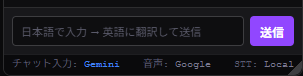
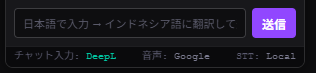
docs: README にクリップ録画・フッターエンジン切替の使い方を追加、バージョンバッジ・スクショ更新 v0.6.22

Changed region(s): [[0.0, 0.0, 1.0, 1.0]]

diff --git a/README.ru.md b/README.ru.md
@@ -2,7 +2,7 @@
 
 [日本語](README.md) | [English](README.en.md) | [Русский](README.ru.md)
 
-![version](https://img.shields.io/badge/version-0.6.13-9147ff)
+![version](https://img.shields.io/badge/version-0.6.22-9147ff)
 ![manifest](https://img.shields.io/badge/manifest-v3-blue)
 ![license](https://img.shields.io/badge/license-MIT-green)
 
@@ -155,6 +155,7 @@
 | **🎤** | Включает/выключает голосовые субтитры |
 | **🔊** | Включает/выключает озвучивание перевода (TTS) |
 | **📊** | Показывает/скрывает панель использования API |
+| **🔴** | Открывает/закрывает панель записи клипов (мигает красным во время записи) |
 | **×** | Закрывает панель и останавливает получение/перевод чата |
 
 **💡 Строка подсказок распознавания**  
@@ -202,6 +203,18 @@
 
 Счетчики использования можно сбросить на странице настроек. Панель можно перетащить в любое место.
 
+### Переключение движков перевода
+
+Щелчок по любому элементу футера переключает включённые движки прямо из панели — открывать страницу настроек не нужно.
+
+| Элемент футера | Движки при щелчке |
+|---|---|
+| **Chat input:** | Google → DeepL → Gemini (только включённые) |
+| **Voice:** | Google → DeepL → Gemini (только включённые) |
+| **STT:** | Local ⇄ Groq (если Groq включён) |
+
+> Чтобы движок появился в цикле, нужно задать API-ключ и включить его на странице настроек. Выключенные движки пропускаются.
+
 ### Отправка сообщений в чат
 
 1. Щелкните правой кнопкой по значку и задайте исходный язык.
@@ -224,6 +237,17 @@
 3. Нажмите еще раз, чтобы остановить.
 
 > Рекомендуется уменьшить громкость стримера или использовать наушники.
+
+### Запись клипов
+
+1. Нажмите кнопку **🔴** в заголовке панели, чтобы открыть панель записи.
+2. Нажмите **«● Начать запись»**, чтобы начать запись (максимальная длительность задаётся в настройках; по умолчанию 3 минуты).
+3. Во время записи кнопка 🔴 мигает красным и показывает прошедшее время.
+4. Нажмите **«■ Стоп»**, чтобы завершить запись. Файл `clip_канал_дата.webm` скачивается автоматически.
+5. Если в настройках включено «Добавлять субтитры к записи», файл субтитров `.ass` также скачивается автоматически.
+6. Команда ffmpeg для вжигания субтитров в видео генерируется автоматически и копируется в буфер обмена.
+
+> Субтитры записываются только когда активны голосовые субтитры **🎤**. Включите **🎤** перед началом записи.
 
 ---
 

diff --git a/README.md b/README.md
@@ -2,7 +2,7 @@
 
 [日本語](README.md) | [English](README.en.md) | [Русский](README.ru.md)
 
-![version](https://img.shields.io/badge/version-0.6.13-9147ff)
+![version](https://img.shields.io/badge/version-0.6.22-9147ff)
 ![manifest](https://img.shields.io/badge/manifest-v3-blue)
 ![license](https://img.shields.io/badge/license-MIT-green)
 
@@ -155,6 +155,7 @@
 | **🎤** | 音声字幕の ON / OFF |
 | **🔊** | 翻訳読み上げ（TTS）の ON / OFF |
 | **📊** | API 利用状況パネルの表示 / 非表示 |
+| **🔴** | クリップ録画パネルの開閉（録画中は赤く点滅） |
 | **×** | パネルを閉じる（チャット受信・翻訳も停止） |
 
 **💡 認識ヒントバー**（画像下部の入力欄）
@@ -204,6 +205,18 @@
 
 利用量はオプションページからリセットできます。パネルはドラッグで好きな位置に移動できます。
 
+### 翻訳エンジンの切り替え
+
+フッターの各項目をクリックすると、オプションで有効にしたエンジンをその場で切り替えられます。設定ページを開かずに素早く変更可能です。
+
+| フッター項目 | クリックで切り替わるエンジン |
+|---|---|
+| **チャット入力:** | Google → DeepL → Gemini（有効なものだけ） |
+| **音声:** | Google → DeepL → Gemini（有効なものだけ） |
+| **STT:** | Local ⇄ Groq（Groq が有効な場合） |
+
+> エンジンを使えるようにするにはオプションページで API キーを設定して有効化する必要があります。有効化していないエンジンはスキップされます。
+
 ### チャット送信
 
 1. アイコンを右クリック → 翻訳元言語を設定
@@ -226,6 +239,17 @@
 3. もう一度クリックで停止
 
 > 配信者の音量を下げてもらうか、ヘッドホンで使用するのがおすすめです。
+
+### クリップ録画
+
+1. パネルヘッダーの **🔴 ボタン** をクリックして録画パネルを開く
+2. **「● 録画開始」** をクリックすると録画が始まる（最大時間はオプションで設定可能、デフォルト 3 分）
+3. 録画中は 🔴 が赤く点滅し、経過時間が表示される
+4. **「■ 停止」** をクリックすると録画終了、`clip_チャンネル名_日時.webm` が自動ダウンロードされる
+5. オプションで「字幕を録画に含める」が ON の場合、`.ass` 字幕ファイルも自動ダウンロードされる
+6. 字幕焼き込み用の ffmpeg コマンドが自動生成されてクリップボードにコピーされる
+
+> 🎤 音声字幕が動作中でないと字幕は記録されません。録画前に **🎤** をオンにしておくのがおすすめです。
 
 ---
 

diff --git a/README.en.md b/README.en.md
@@ -2,7 +2,7 @@
 
 [日本語](README.md) | [English](README.en.md) | [Русский](README.ru.md)
 
-![version](https://img.shields.io/badge/version-0.6.13-9147ff)
+![version](https://img.shields.io/badge/version-0.6.22-9147ff)
 ![manifest](https://img.shields.io/badge/manifest-v3-blue)
 ![license](https://img.shields.io/badge/license-MIT-green)
 
@@ -155,6 +155,7 @@ Before using voice subtitles, download a model from the options page.
 | **🎤** | Toggles voice subtitles on/off |
 | **🔊** | Toggles translation text-to-speech (TTS) on/off |
 | **📊** | Shows/hides the API usage panel |
+| **🔴** | Opens/closes the clip recording panel (blinks red during recording) |
 | **×** | Closes the panel and stops chat receiving/translation |
 
 **💡 Recognition hint bar**  
@@ -202,6 +203,18 @@ A translucent floating panel that can be opened from the header **📊** button.
 
 Usage counters can be reset from the options page. The panel can be dragged to any position.
 
+### Switching Translation Engines
+
+Click any item in the footer to cycle through the engines you've enabled in options — no need to open the settings page.
+
+| Footer item | Engines cycled on click |
+|---|---|
+| **Chat input:** | Google → DeepL → Gemini (enabled ones only) |
+| **Voice:** | Google → DeepL → Gemini (enabled ones only) |
+| **STT:** | Local ⇄ Groq (when Groq is enabled) |
+
+> An engine must have its API key set and be enabled on the options page to appear in the cycle. Disabled engines are skipped.
+
 ### Sending Chat
 
 1. Right-click the icon and set the source language.
@@ -224,6 +237,17 @@ Usage counters can be reset from the options page. The panel can be dragged to a
 3. Click again to stop.
 
 > Lowering the streamer’s volume or using headphones is recommended.
+
+### Clip Recording
+
+1. Click the **🔴 button** in the panel header to open the recording panel.
+2. Click **"● Start Recording"** to begin recording (maximum duration is configurable in options; default is 3 minutes).
+3. While recording, the 🔴 button blinks red and shows the elapsed time.
+4. Click **"■ Stop"** to finish. `clip_channelname_timestamp.webm` is downloaded automatically.
+5. If "Include subtitles in recording" is enabled in options, the `.ass` subtitle file is also downloaded.
+6. An ffmpeg command for burning subtitles into the video is automatically generated and copied to the clipboard.
+
+> Subtitles are only recorded while **🎤** voice subtitles are active. Turn on **🎤** before starting recording.
 
 ---
 
